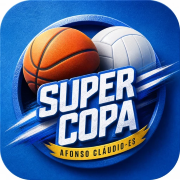
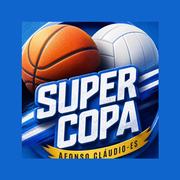
PWA: corrige start_url/scope do manifest (subpasta) e ícone do iPhone sem cantos brancos

diff --git a/sw.js b/sw.js
@@ -1,12 +1,12 @@
-const CACHE_NAME = 'supercopa-afc-v12';
+const CACHE_NAME = 'supercopa-afc-v13';
 
 const urlsToCache = [
-  '/',
-  '/index.html',
-  '/manifest.webmanifest',
-  '/pwa-icon-192.png',
-  '/pwa-icon-512.png',
-  '/apple-touch-icon.png'
+  './',
+  './index.html',
+  './manifest.webmanifest',
+  './pwa-icon-192.png',
+  './pwa-icon-512.png',
+  './apple-touch-icon.png'
 ];
 
 self.addEventListener('install', event => {
